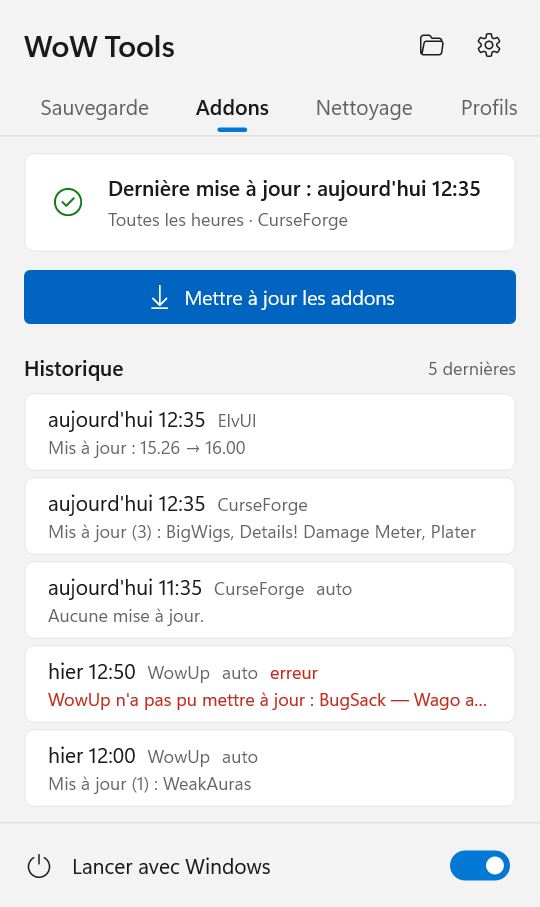
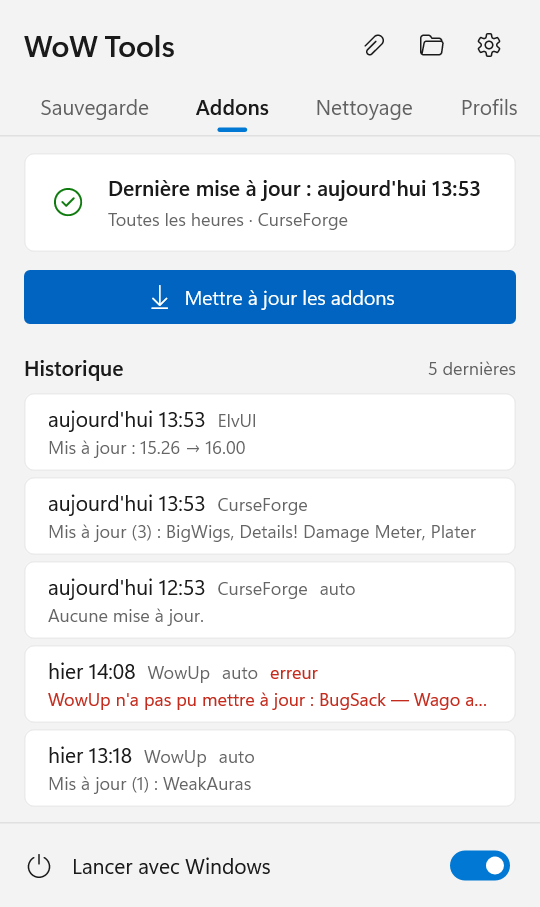
Notifications switch, panel pin; 0.2.3
Settings -> General gets a switch for tray balloons. The panel header gets
a paperclip that keeps the panel open on focus loss and after the folder
and settings buttons.

Claude-Session: https://claude.ai/code/session_01S98tRq1oV7ER1s62xga5qf

diff --git a/src/panel.rs b/src/panel.rs
@@ -6,7 +6,7 @@
 use std::cell::RefCell;
 use std::mem::{size_of, zeroed};
 use std::ptr::{null, null_mut};
-use std::sync::atomic::{AtomicU8, AtomicU64, Ordering};
+use std::sync::atomic::{AtomicBool, AtomicU8, AtomicU64, Ordering};
 
 use windows::Win32::Graphics::Direct2D::Common::D2D1_COLOR_F;
 use windows::Win32::Graphics::DirectWrite::IDWriteTextFormat;
@@ -105,6 +105,8 @@ pub const HISTORY_ROWS: usize = 5;
 #[derive(Clone, Copy, PartialEq, Debug)]
 enum Hit {
     Tab(Tab),
+    /// The paperclip: keep the panel open when it loses focus.
+    Pin,
     Update,
     /// Hovering a history row shows its full text.
     History(usize),
@@ -601,6 +603,15 @@ fn height(v: &View) -> f32 {
     divider_y(v) + 1.0 + FOOTER_H + 8.0
 }
 
+fn pin_rect() -> R {
+    R {
+        x: W - PAD - 110.0,
+        y: 14.0,
+        w: 32.0,
+        h: 32.0,
+    }
+}
+
 fn folder_rect() -> R {
     R {
         x: W - PAD - 72.0,
@@ -624,7 +635,7 @@ fn update_rect(v: &View, f: &Formats) -> Option<R> {
     let release = v.self_update.available.as_ref()?;
     let w = gfx::text_width(&f.button, &release.version) + 44.0;
     Some(R {
-        x: folder_rect().x - 8.0 - w,
+        x: pin_rect().x - 8.0 - w,
         y: 16.0,
         w,
         h: 28.0,
@@ -705,7 +716,12 @@ fn tabs(f: &Formats) -> Vec<(R, Tab)> {
 }
 
 fn hits(v: &View, f: &Formats, tab: Tab, confirm: Option<Confirm>, sheet: Option<&Sheet>, prof_first: usize) -> Vec<(R, Hit)> {
-    let mut out = vec![(folder_rect(), Hit::Folder), (settings_rect(), Hit::Settings), (footer_rect(v), Hit::Autostart)];
+    let mut out = vec![
+        (pin_rect(), Hit::Pin),
+        (folder_rect(), Hit::Folder),
+        (settings_rect(), Hit::Settings),
+        (footer_rect(v), Hit::Autostart),
+    ];
     if let Some(r) = update_rect(v, f).filter(|_| !v.self_update.installing) {
         out.push((r, Hit::SelfUpdate));
     }
@@ -874,6 +890,17 @@ fn draw(p: &Painter, v: &View, t: &Theme, f: &Formats, tab: Tab, hover: Option<H
         },
         t.text,
     );
+    // The paperclip: accent-filled while pinned.
+    let pin = pin_rect();
+    if PINNED.load(Ordering::Relaxed) {
+        p.fill(pin, 4.0, t.accent);
+        p.text("\u{E723}", &f.icon, pin, t.on_accent);
+    } else {
+        if hover == Some(Hit::Pin) {
+            p.fill(pin, 4.0, t.card_hover);
+        }
+        p.text("\u{E723}", &f.icon, pin, t.text);
+    }
     for (r, hit, icon) in [(folder_rect(), Hit::Folder, "\u{E838}"), (settings_rect(), Hit::Settings, "\u{E713}")] {
         if hover == Some(hit) {
             p.fill(r, 4.0, t.card_hover);
@@ -1870,6 +1897,14 @@ thread_local! {
 /// When the panel last closed: a click on the tray icon first deactivates (closes) it,
 /// and must not reopen it right away.
 static LAST_CLOSE: AtomicU64 = AtomicU64::new(0);
+/// Pinned with the paperclip: focus loss does not close the panel (Esc and the tray icon do).
+/// Kept while the tray runs.
+static PINNED: AtomicBool = AtomicBool::new(false);
+
+pub fn set_pinned(on: bool) {
+    PINNED.store(on, Ordering::Relaxed);
+}
+
 /// The tab open last (`Tab as u8`); the panel reopens on it.
 static LAST_TAB: AtomicU8 = AtomicU8::new(0);
 
@@ -2050,12 +2085,16 @@ fn click(hwnd: HWND, hit: Hit) {
     let mut close = false;
     let action = with_panel(|p| match hit {
         Hit::Folder => {
-            close = true;
+            close = !PINNED.load(Ordering::Relaxed);
             Some(Action::OpenBackups)
         }
         Hit::Settings => {
-            close = true;
+            close = !PINNED.load(Ordering::Relaxed);
             Some(Action::OpenSettings)
+        }
+        Hit::Pin => {
+            PINNED.fetch_xor(true, Ordering::Relaxed);
+            None
         }
         Hit::Backup => Some(Action::BackupNow),
         Hit::Update => Some(Action::UpdateAddons),
@@ -2308,8 +2347,8 @@ unsafe extern "system" fn wndproc(hwnd: HWND, msg: u32, wparam: WPARAM, lparam: 
                 }
                 0
             }
-            // Clicking anywhere else closes the panel, like Windows flyouts.
-            WM_ACTIVATE if (wparam & 0xFFFF) as u32 == WA_INACTIVE => {
+            // Clicking anywhere else closes the panel, like Windows flyouts, unless it is pinned.
+            WM_ACTIVATE if (wparam & 0xFFFF) as u32 == WA_INACTIVE && !PINNED.load(Ordering::Relaxed) => {
                 DestroyWindow(hwnd);
                 0
             }

diff --git a/src/settings.rs b/src/settings.rs
@@ -158,6 +158,7 @@ enum Row {
     UpdateTime,
     Language,
     Autostart,
+    Notify,
     CheckUpdates,
     Version,
     File,
@@ -201,6 +202,7 @@ fn rows(m: &Model, tab: Tab) -> Vec<Row> {
             Row::Section(tr!("settings.section_system")),
             Row::Language,
             Row::Autostart,
+            Row::Notify,
             Row::CheckUpdates,
             Row::Version,
             Row::File,
@@ -283,6 +285,7 @@ enum Hit {
     UpdateTimeDown,
     UpdateTimeUp,
     Autostart,
+    Notify,
     CheckUpdates,
     CheckNow,
     InstallUpdate,
@@ -636,6 +639,7 @@ fn controls(row: R, kind: Row, m: &Model, f: &Formats) -> Vec<Control> {
             Some(Hit::UpdateTimeUp),
         ),
         Row::Autostart => switch(&mut out, m.autostart, Hit::Autostart),
+        Row::Notify => switch(&mut out, m.cfg.notifications, Hit::Notify),
         Row::CheckUpdates => switch(&mut out, m.cfg.check_updates, Hit::CheckUpdates),
         Row::Version => {
             let u = &m.update;
@@ -813,6 +817,7 @@ fn texts(kind: Row, m: &Model) -> (&'static str, &'static str, String, bool) {
             ("\u{E774}", tr!("settings.language"), sub, false)
         }
         Row::Autostart => ("\u{E7E8}", tr!("panel.autostart"), tr!("settings.autostart_sub").into(), false),
+        Row::Notify => ("\u{EA8F}", tr!("settings.notify"), tr!("settings.notify_sub").into(), false),
         Row::CheckUpdates => ("\u{E777}", tr!("self_update.check"), tr!("self_update.check_sub").into(), false),
         Row::Version => {
             let u = &m.update;
@@ -1190,6 +1195,7 @@ fn change(m: &mut Model, hit: Hit, hwnd: HWND) -> Option<Action> {
             crate::i18n::set(lang);
         }
         Hit::Autostart => return Some(Action::Autostart),
+        Hit::Notify => m.cfg.notifications = !m.cfg.notifications,
         Hit::CheckUpdates => m.cfg.check_updates = !m.cfg.check_updates,
         Hit::CheckNow => return Some(Action::CheckUpdate),
         Hit::InstallUpdate => return Some(Action::InstallUpdate),

diff --git a/src/config.rs b/src/config.rs
@@ -122,6 +122,8 @@ pub struct Config {
     pub exclude_ext: Vec<String>,
     /// Interface language; unset = the Windows one.
     pub language: Option<crate::i18n::Lang>,
+    /// Tray balloons (snapshots, updates, errors).
+    pub notifications: bool,
     /// Ask GitHub once a day for a newer WoW Tools (`selfupdate`).
     pub check_updates: bool,
     /// Where the cleanup moves screenshots; unset = `Pictures\World of Warcraft`.
@@ -156,6 +158,7 @@ impl Default for Config {
             skip_while_running: true,
             exclude_ext: vec!["bak".into(), "old".into()],
             language: None,
+            notifications: true,
             check_updates: true,
             screenshots_dir: None,
             screenshots_by: ShotsBy::Month,

diff --git a/src/tray.rs b/src/tray.rs
@@ -1020,6 +1020,8 @@ unsafe fn update_tray(hwnd: HWND, action: u32) {
         let tip = tooltip(s);
         (id, badge, tip, st.balloon.take())
     };
+    // Read only when there is something to show; unreadable = shown.
+    let balloon = balloon.filter(|_| config_path().and_then(|p| Config::load(&p).ok()).is_none_or(|c| c.notifications));
     unsafe {
         let icon = tray_icon(id, badge, GetSystemMetrics(SM_CXSMICON));
         let mut nid: NOTIFYICONDATAW = zeroed();

diff --git a/src/main.rs b/src/main.rs
@@ -810,6 +810,7 @@ fn cmd_ui_snapshot(out: &std::path::Path, view: &str, dark: bool) -> Result<()> 
         }
         "error" => demo.status.phase = Phase::Error(format!("_retail_ WTF: {} (os error 5)", tr!("snapshot.remove_failed", path = "Config.wtf"))),
         "confirm" => confirm = Some(panel::Confirm::Restore(1)),
+        "pinned" => panel::set_pinned(true),
         "empty" => {
             demo.points.clear();
             demo.status.last = None;

diff --git a/CLAUDE.md b/CLAUDE.md
@@ -50,7 +50,7 @@ links the MSVC C runtime statically, so the exe needs no VC++ redistributable. C
 
 ## Seeing the UI without a screen
 
-`wow-tools ui-snapshot <out.png> [panel|busy|game|error|confirm|empty|busy-addons|addons|addons-busy|addons-tip|addons-empty|update|update-tip|cleanup|cleanup-tip|cleanup-confirm|cleanup-busy|cleanup-done|cleanup-scanning|cleanup-list|profiles|profiles-pick|profiles-apply|profiles-confirm|profiles-busy|profiles-done|profiles-same|profiles-tip|profiles-empty|profiles-search|profiles-game|menu|menu-update|settings|settings-update|settings-backup|settings-exit|settings-addons|settings-every|settings-one|settings-wago|settings-screenshots|tray-icons] [--dark]` (hidden command; `--lang ru|en|de|fr|es`) renders
+`wow-tools ui-snapshot <out.png> [panel|busy|game|error|confirm|empty|pinned|busy-addons|addons|addons-busy|addons-tip|addons-empty|update|update-tip|cleanup|cleanup-tip|cleanup-confirm|cleanup-busy|cleanup-done|cleanup-scanning|cleanup-list|profiles|profiles-pick|profiles-apply|profiles-confirm|profiles-busy|profiles-done|profiles-same|profiles-tip|profiles-empty|profiles-search|profiles-game|menu|menu-update|settings|settings-update|settings-backup|settings-exit|settings-addons|settings-every|settings-one|settings-wago|settings-screenshots|tray-icons] [--dark]` (hidden command; `--lang ru|en|de|fr|es`) renders
 the panel, the menu or the settings window with demo data, at 1.5x. Read the PNG to check layout after any UI change.
 The owner often plays WoW while we work: never screenshot the screen or bring windows to the front to check the UI.
 
@@ -69,7 +69,7 @@ The owner often plays WoW while we work: never screenshot the screen or bring wi
 - `tray.rs`: hidden window, single-instance mutex, tray icon from the exe's resources (`build.rs` +
   `wow-tools.rc` embed `assets\wow-tools.ico`, the gold app icon = a game runs, and `assets\tray-idle.ico`, grey)
   with a dot drawn on for busy (blue) / failed (red) (`tray_icon`; `ui-snapshot tray-icons` shows them), `TaskbarCreated`
-  re-add, balloons for manual results and new errors. `view()` builds what the panel/menu show; `act(Action)` runs
+  re-add, balloons for manual results and new errors (none with `notifications` off: `update_tray` drops them). `view()` builds what the panel/menu show; `act(Action)` runs
   their clicks. A double-click start frees its own console (`GetConsoleProcessList == 1`); after that,
   `Command::spawn` with inherited stdio fails with os error 50, so files are opened with `ShellExecuteW`.
 - `gfx.rs`: Direct2D/DirectWrite helpers shared by the UI, modeled on RGBTray (`C:\test\Accs\src\ui.rs`): system
@@ -87,7 +87,8 @@ The owner often plays WoW while we work: never screenshot the screen or bring wi
   (pick list `ApplyTo`, then "sure?" in the row: `Confirm::ApplyProfile`) and delete; jobs run in the worker
   (`Request::SaveProfile`/`ApplyProfile`), spinner and result in the row); autostart switch under all. The height fits the tallest tab, so switching tabs
   does not resize it.
-  Pure `draw(view, …)`; closes on deactivate/Esc. `menu.rs`: right-click menu in the same style.
+  Pure `draw(view, …)`; closes on deactivate/Esc; the header paperclip (`PINNED`, kept while the tray runs) keeps it
+  open on deactivate and after the folder/settings buttons (Esc and the tray icon still close it). `menu.rs`: right-click menu in the same style.
 - `settings.rs`: the settings window (a regular titled window; tabs "Общие" (game + system only), "Бэкап", "Аддоны", "Скриншоты" (where the cleanup moves them: folder, date folders, folder per flavor) fixed at the
   top, the cards under them scroll when taller than the screen; `fit` sizes the window to the open tab, refit on tab
   switches and on changes that add or remove cards, top edge kept): game folder

diff --git a/README.fr.md b/README.fr.md
@@ -101,12 +101,15 @@ Le **clic gauche** ouvre le panneau (style Windows 11, suit le thème clair/somb
   chaque élément — voir [Nettoyage](#nettoyage).
 - Onglet **Profils** : les profils d'interface enregistrés et **Enregistrer un profil** — voir
   [Profils d'interface](#profils-dinterface).
-- En haut : le dossier des sauvegardes et les paramètres ; en bas : **Lancer avec Windows**.
+- En haut : le trombone, le dossier des sauvegardes et les paramètres ; en bas : **Lancer avec Windows**. Le panneau
+  se ferme quand vous cliquez ailleurs ; trombone enfoncé, il reste ouvert jusqu'à Échap ou un clic sur l'icône de
+  notification.
 
 Le **clic droit** ouvre le menu : le panneau, sauvegarder, mettre à jour les addons, dossier des sauvegardes,
 paramètres, journal, démarrage automatique, quitter.
 
-Des notifications s'affichent pour le résultat de ce que vous avez lancé vous-même et pour les nouvelles erreurs.
+Des notifications s'affichent pour le résultat de ce que vous avez lancé vous-même et pour les nouvelles erreurs ;
+**Notifications** dans **Paramètres → Général** les désactive.
 
 ## Paramètres
 
@@ -118,8 +121,8 @@ Des notifications s'affichent pour le résultat de ce que vous avez lancé vous-
 Chaque modification est enregistrée aussitôt et appliquée sans redémarrage.
 
 - **Général** : dossier du jeu (trouvé automatiquement, modifiable à la main), versions du jeu avec lesquelles travailler (sauvegardes, nettoyage, profils), langue,
-  lancement avec Windows, **Rechercher les mises à jour** et la version actuelle avec **Vérifier** / **Installer**, et
-  un lien vers `config.toml` pour les options rarement utiles.
+  lancement avec Windows, **Notifications**, **Rechercher les mises à jour** et la version actuelle avec **Vérifier** /
+  **Installer**, et un lien vers `config.toml` pour les options rarement utiles.
 - **Sauvegarde** : quand sauvegarder (*Après le jeu*, à sa fermeture, ou *Planifié* — les jours choisis à une heure
   donnée), nombre de sauvegardes à conserver, les interrupteurs **Sauvegarder les addons** et **Attendre la fermeture du jeu**,
   dossier des sauvegardes.

diff --git a/README.de.md b/README.de.md
@@ -99,12 +99,15 @@ Das Symbol zeigt den aktuellen Zustand:
 - Reiter **Aufräumen**: was sich in WTF und im Spielordner aufräumen lässt, mit Größenangaben und je einer
   Schaltfläche – siehe [Aufräumen](#aufräumen).
 - Reiter **Profile**: gespeicherte UI-Profile und **Profil speichern** — siehe [UI-Profile](#ui-profile).
-- Oben: der Sicherungsordner und die Einstellungen; unten: **Mit Windows starten**.
+- Oben: die Büroklammer, der Sicherungsordner und die Einstellungen; unten: **Mit Windows starten**. Der Bereich
+  schließt sich bei einem Klick daneben; mit gedrückter Büroklammer bleibt er offen, bis Sie Esc drücken oder auf das
+  Infobereichssymbol klicken.
 
 **Rechtsklick** öffnet das Menü: Bereich, jetzt sichern, Addons aktualisieren, Sicherungsordner, Einstellungen,
 Protokoll, Autostart, Beenden.
 
-Benachrichtigungen erscheinen für die Ergebnisse dessen, was Sie selbst gestartet haben, und bei neuen Fehlern.
+Benachrichtigungen erscheinen für die Ergebnisse dessen, was Sie selbst gestartet haben, und bei neuen Fehlern;
+**Benachrichtigungen** unter **Einstellungen → Allgemein** schaltet sie ab.
 
 ## Einstellungen
 
@@ -116,8 +119,8 @@ Benachrichtigungen erscheinen für die Ergebnisse dessen, was Sie selbst gestart
 Jede Änderung wird sofort gespeichert und ohne Neustart übernommen.
 
 - **Allgemein**: Spielordner (automatisch gefunden, auch manuell festlegbar), mit welchen Spielversionen gearbeitet wird (Sicherungen, Aufräumen, Profile),
-  Sprache, Start mit Windows, **Nach Updates suchen** und die aktuelle Version mit **Prüfen** / **Installieren** sowie
-  ein Link zu `config.toml` für selten benötigte Optionen.
+  Sprache, Start mit Windows, **Benachrichtigungen**, **Nach Updates suchen** und die aktuelle Version mit **Prüfen** /
+  **Installieren** sowie ein Link zu `config.toml` für selten benötigte Optionen.
 - **Sicherung**: wann gesichert wird (*Nach dem Spiel*, also beim Beenden, oder *Nach Zeitplan* – an gewählten
   Wochentagen zu einer festen Uhrzeit), wie viele Sicherungen behalten werden, die Schalter **Addons sichern** und
   **Auf Spielende warten**, der Sicherungsordner.

diff --git a/README.es.md b/README.es.md
@@ -96,12 +96,14 @@ El icono muestra el estado actual:
   cosa; mira [Limpieza](#limpieza).
 - Pestaña **Perfiles**: los perfiles de interfaz guardados y **Guardar un perfil** — ver
   [Perfiles de interfaz](#perfiles-de-interfaz).
-- Arriba: la carpeta de copias y la configuración; abajo: **Iniciar con Windows**.
+- Arriba: el clip, la carpeta de copias y la configuración; abajo: **Iniciar con Windows**. El panel se cierra al
+  hacer clic fuera; con el clip pulsado sigue abierto hasta pulsar Esc o hacer clic en el icono de la bandeja.
 
 **Clic derecho** abre el menú: el panel, hacer copia ahora, actualizar addons, carpeta de copias, configuración,
 registro, inicio automático, salir.
 
-Se muestran notificaciones con el resultado de lo que inicias tú mismo y con los errores nuevos.
+Se muestran notificaciones con el resultado de lo que inicias tú mismo y con los errores nuevos; **Notificaciones**
+en **Configuración → General** las desactiva.
 
 ## Configuración
 
@@ -113,8 +115,8 @@ Se muestran notificaciones con el resultado de lo que inicias tú mismo y con lo
 Cada cambio se guarda al instante y se aplica sin reiniciar.
 
 - **General**: carpeta del juego (se detecta automáticamente, se puede elegir a mano), con qué versiones del juego trabajar (copias, limpieza, perfiles),
-  idioma, inicio con Windows, **Buscar actualizaciones** y la versión actual con **Comprobar** / **Instalar**, y un
-  enlace a `config.toml` para las opciones que rara vez se necesitan.
+  idioma, inicio con Windows, **Notificaciones**, **Buscar actualizaciones** y la versión actual con **Comprobar** /
+  **Instalar**, y un enlace a `config.toml` para las opciones que rara vez se necesitan.
 - **Copias**: cuándo hacer la copia (*Tras el juego*, al cerrarlo, o *Programada*: los días de la semana elegidos a una
   hora fija), cuántas instantáneas conservar, los interruptores **Copiar accesorios** y **Esperar a que se cierre el juego**,
   la carpeta de copias.

diff --git a/README.md b/README.md
@@ -92,11 +92,13 @@ The icon shows the current state:
 - **Cleanup** tab: what can be tidied up in WTF and the game folder, with sizes and a button each — see
   [Cleanup](#cleanup).
 - **Profiles** tab: saved UI profiles and **Save a profile** — see [UI profiles](#ui-profiles).
-- At the top: the backups folder and the settings; at the bottom: **Start with Windows**.
+- At the top: the paperclip, the backups folder and the settings; at the bottom: **Start with Windows**. The panel
+  closes when you click elsewhere; with the paperclip pressed it stays open until Esc or a click on the tray icon.
 
 **Right click** opens the menu: the panel, back up now, update addons, backups folder, settings, log, autostart, exit.
 
-Notifications appear for the results of what you started yourself and for new errors.
+Notifications appear for the results of what you started yourself and for new errors; **Notifications** in
+**Settings → General** turns them off.
 
 ## Settings
 
@@ -108,7 +110,7 @@ Notifications appear for the results of what you started yourself and for new er
 Every change is saved at once and applied without a restart.
 
 - **General**: game folder (found automatically, can be set by hand), which game versions to work with (backups, cleanup, profiles), language,
-  start with Windows, **Check for updates** and the current version with **Check** / **Install**, and a link to
+  start with Windows, **Notifications**, **Check for updates** and the current version with **Check** / **Install**, and a link to
   `config.toml` for the rarely needed options.
 - **Backup**: when to back up (*after the game* closes, or *on schedule* — chosen weekdays at a set time), how many
   snapshots to keep, the **Back up addons** and **Wait for the game to exit** switches, the backups folder.
